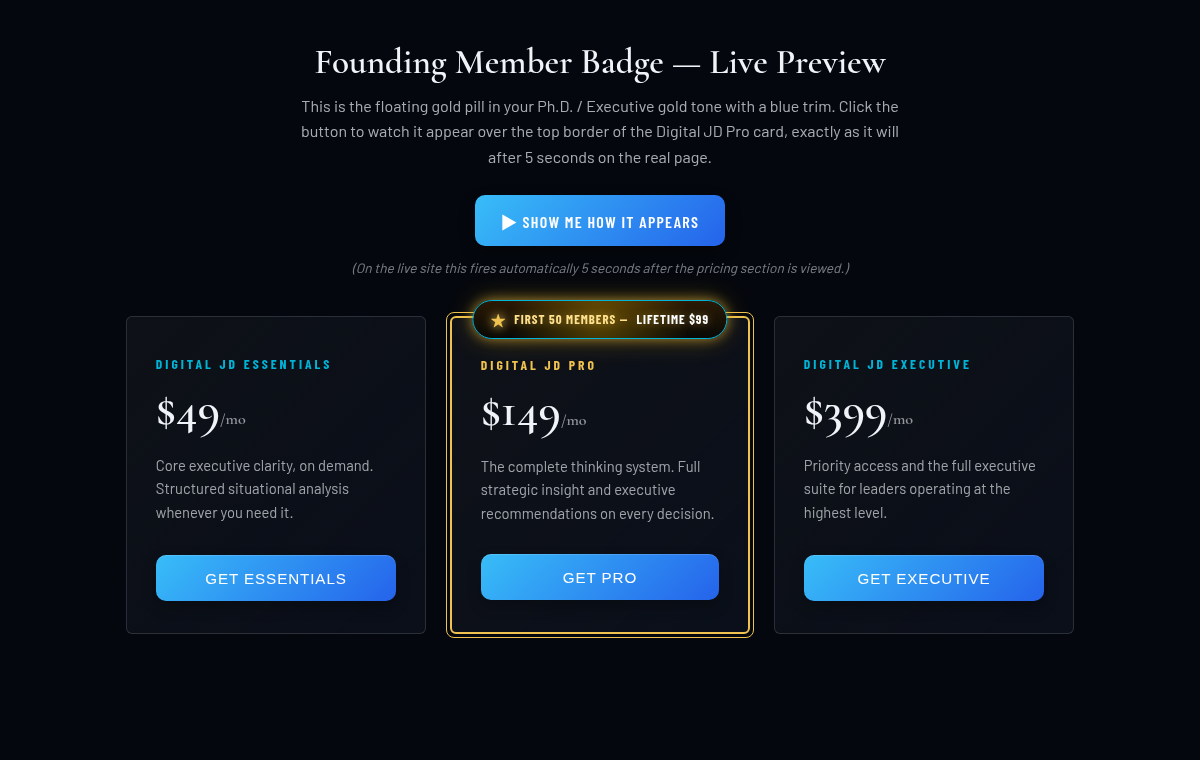
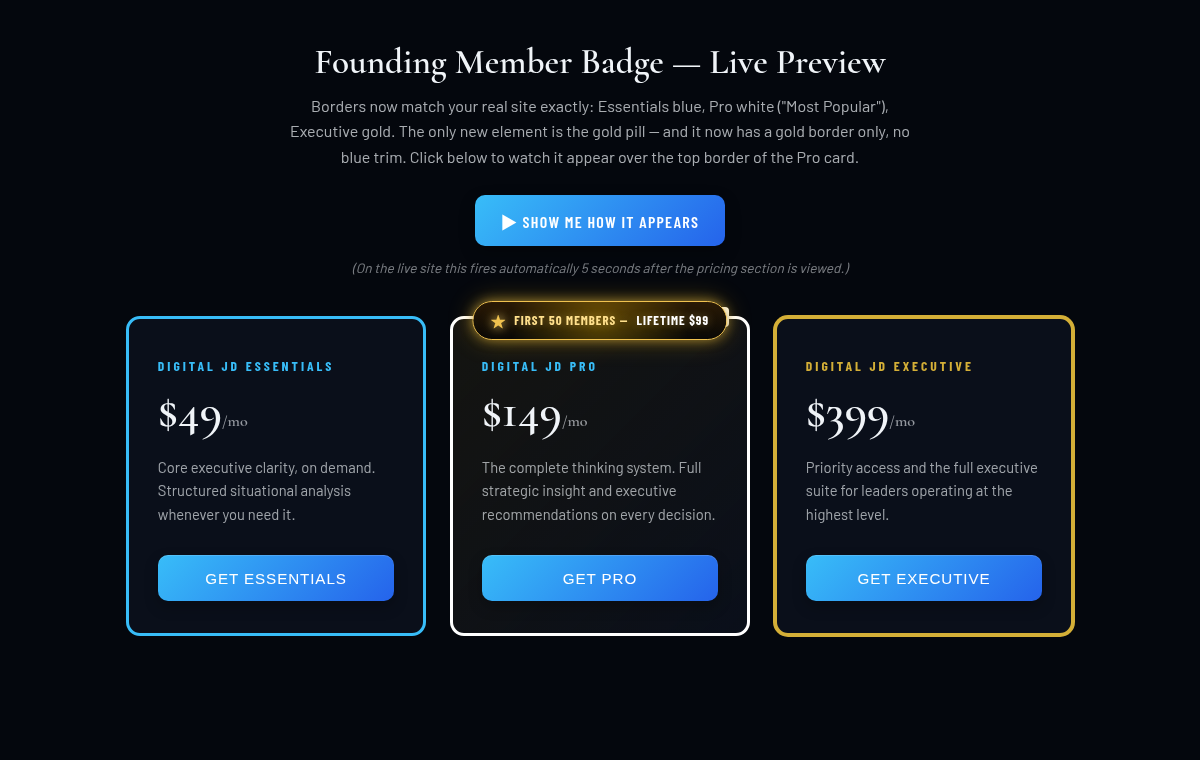
feat: update color scheme and border styles for pricing tiers to match real site

diff --git a/founding-preview.html b/founding-preview.html
@@ -9,9 +9,11 @@
 <style>
   :root{
     --navy:#0a0f1a;
-    --gold:#f0c24f;
+    --gold:#d4af37;
+    --gold-line:#f0c24f;
     --gold-bright:#ffe08c;
-    --blue:#00b4d8;
+    --blue:#38bdf8;
+    --white-dim:rgba(240,244,248,0.6);
   }
   *{box-sizing:border-box;}
   body{
@@ -67,7 +69,7 @@
     font-style:italic;
   }
 
-  /* ---- PRICING CARDS ---- */
+  /* ---- PRICING CARDS (matching the REAL site borders) ---- */
   .tiers{
     display:flex;
     gap:1.5rem;
@@ -79,26 +81,39 @@
   }
   .tier-card{
     width:300px;
-    background:linear-gradient(135deg, rgba(240,244,248,0.045), var(--navy));
-    border:1px solid rgba(240,244,248,0.14);
-    border-radius:6px;
+    background:var(--navy);
+    border-radius:14px;
     padding:2.4rem 1.8rem 2rem;
     display:flex;
     flex-direction:column;
     position:relative;
   }
-  /* Pro = double gold border, exactly like the real site */
-  .tier-card.pro-tier{
-    border:2px solid var(--gold);
+  /* Essentials = blue 3px (real site) */
+  .tier-card.essentials{ border:3px solid #38bdf8; }
+  /* Pro = white 3px, "Most Popular" (real site) */
+  .tier-card.featured{
+    border:3px solid #ffffff;
+    background:linear-gradient(135deg, rgba(212,175,55,0.08), var(--navy));
     overflow:visible;
   }
-  .tier-card.pro-tier::before{
-    content:'';
+  /* Executive = gold 3px + gold ring (real site) */
+  .tier-card.executive{
+    border:3px solid #d4af37;
+    box-shadow:0 0 0 1px #d4af37;
+  }
+  .tier-featured-tag{
     position:absolute;
-    inset:-6px;
-    border:1px solid var(--gold);
-    border-radius:8px;
-    pointer-events:none;
+    top:-12px;
+    right:18px;
+    background:#ffffff;
+    color:#0a0f1a;
+    font-family:'Barlow Condensed',sans-serif;
+    font-size:0.65rem;
+    font-weight:700;
+    letter-spacing:0.15em;
+    text-transform:uppercase;
+    padding:0.25rem 0.7rem;
+    border-radius:4px;
   }
   .tier-name{
     font-family:'Barlow Condensed',sans-serif;
@@ -109,7 +124,7 @@
     font-weight:700;
     margin-bottom:0.8rem;
   }
-  .tier-card.pro-tier .tier-name{ color:var(--gold); }
+  .tier-card.executive .tier-name{ color:var(--gold); }
   .tier-price{
     font-family:'Cormorant Garamond',serif;
     font-size:3rem;
@@ -141,7 +156,7 @@
     box-shadow:0 6px 14px rgba(0,0,0,0.25), inset 0 1px 0 rgba(255,255,255,0.15);
   }
 
-  /* ---- FOUNDING MEMBER GOLD PILL ---- */
+  /* ---- FOUNDING MEMBER GOLD PILL (gold border only) ---- */
   .founding-pill{
     position:absolute;
     top:-18px;
@@ -153,8 +168,8 @@
     gap:0.5rem;
     white-space:nowrap;
 
-    /* PhD gold tone + blue trim */
-    border:1.5px solid var(--blue);
+    /* PhD/Executive gold tone, GOLD border only */
+    border:1.5px solid var(--gold-line);
     background:
       radial-gradient(circle at center, rgba(255,195,0,.30), transparent 70%),
       linear-gradient(180deg,#2a1a05 0%, #090806 100%);
@@ -184,7 +199,7 @@
     pointer-events:auto;
   }
   .founding-pill .star{
-    color:var(--gold);
+    color:var(--gold-line);
     font-size:0.9rem;
     filter:drop-shadow(0 0 6px rgba(255,210,90,.6));
   }
@@ -195,20 +210,21 @@
 
   <div class="intro">
     <h1>Founding Member Badge — Live Preview</h1>
-    <p>This is the floating gold pill in your Ph.D. / Executive gold tone with a blue trim. Click the button to watch it appear over the top border of the Digital JD Pro card, exactly as it will after 5 seconds on the real page.</p>
+    <p>Borders now match your real site exactly: Essentials blue, Pro white ("Most Popular"), Executive gold. The only new element is the gold pill — and it now has a gold border only, no blue trim. Click below to watch it appear over the top border of the Pro card.</p>
     <button class="demo-btn" onclick="triggerBadge()">&#9654; Show me how it appears</button>
     <div class="demo-hint">(On the live site this fires automatically 5 seconds after the pricing section is viewed.)</div>
   </div>
 
   <div class="tiers">
-    <div class="tier-card">
+    <div class="tier-card essentials">
       <div class="tier-name">Digital JD Essentials</div>
       <div class="tier-price">$49<span>/mo</span></div>
       <div class="tier-desc">Core executive clarity, on demand. Structured situational analysis whenever you need it.</div>
       <a class="tier-btn" href="#">Get Essentials</a>
     </div>
 
-    <div class="tier-card pro-tier">
+    <div class="tier-card featured">
+      <div class="tier-featured-tag">Most Popular</div>
       <div class="founding-pill" id="foundingPill">
         <span class="star">&#9733;</span>
         First 50 members &mdash; <strong>Lifetime $99</strong>
@@ -219,7 +235,7 @@
       <a class="tier-btn" href="#">Get Pro</a>
     </div>
 
-    <div class="tier-card">
+    <div class="tier-card executive">
       <div class="tier-name">Digital JD Executive</div>
       <div class="tier-price">$399<span>/mo</span></div>
       <div class="tier-desc">Priority access and the full executive suite for leaders operating at the highest level.</div>